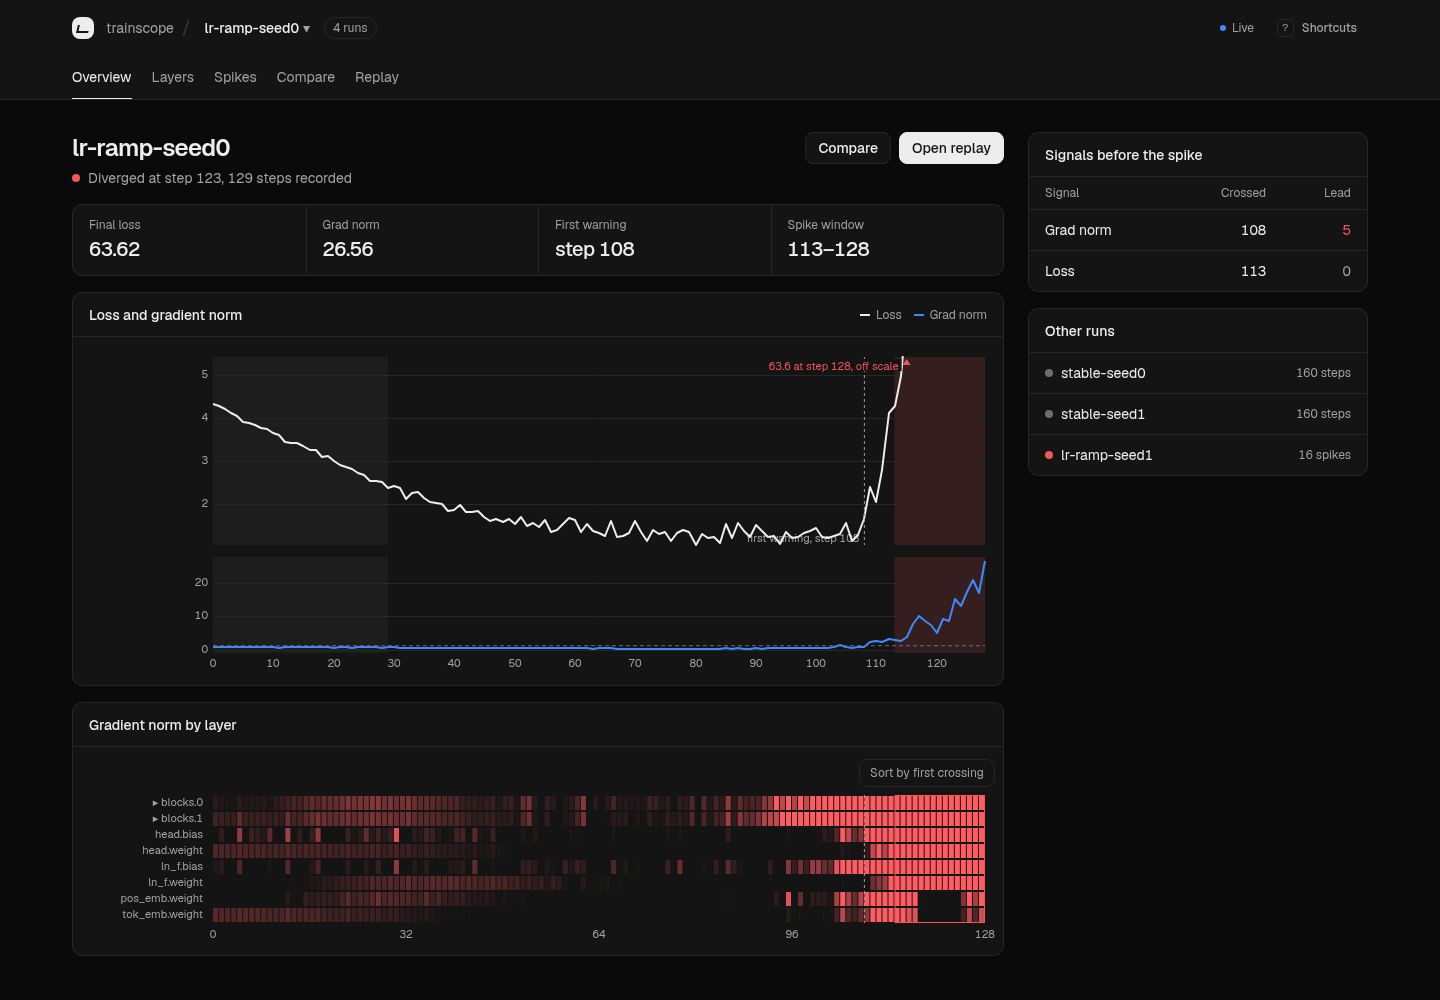
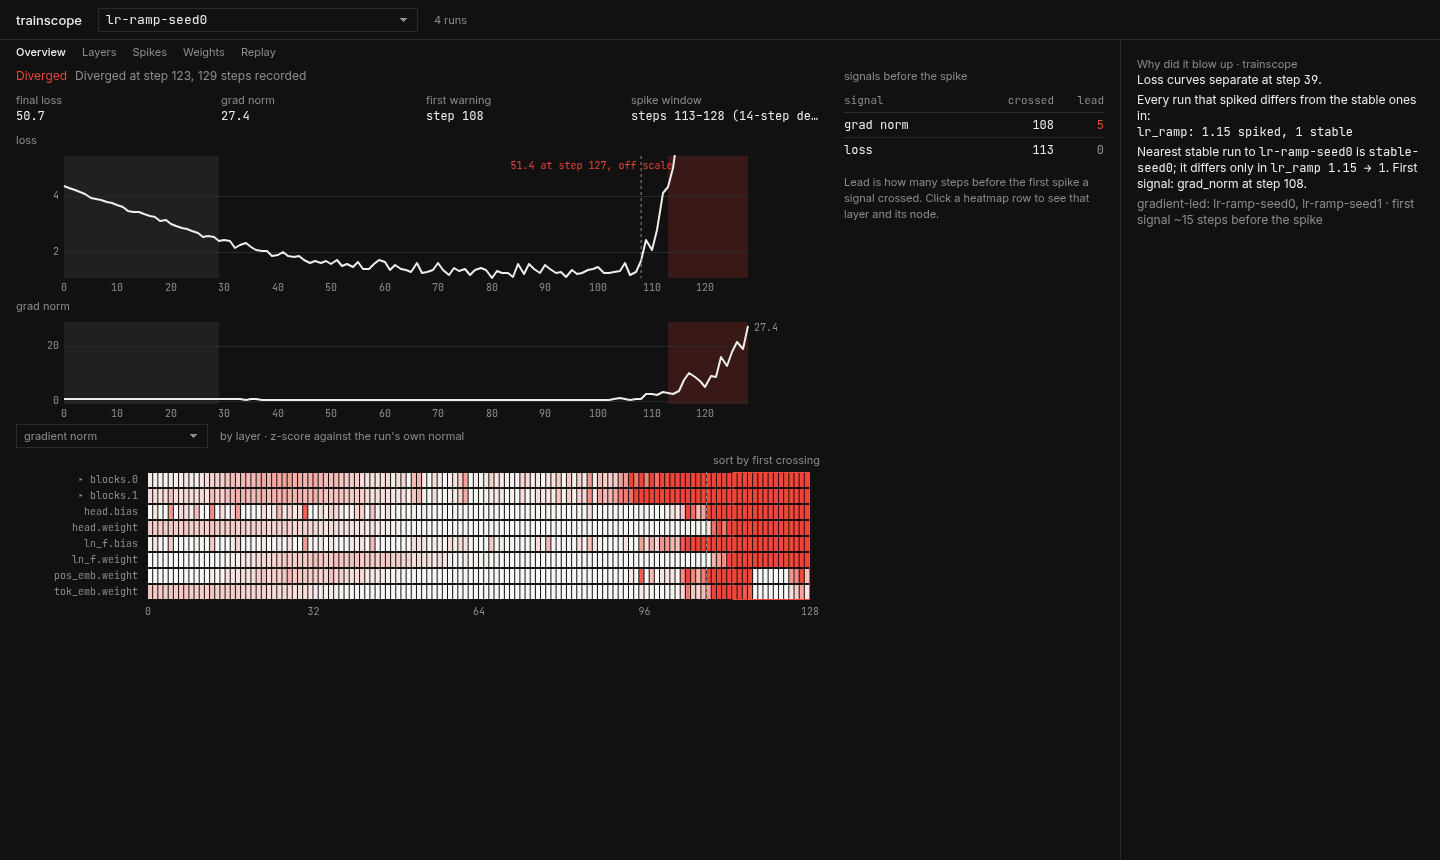
Release trainscope from the Weightsmith repository

diff --git a/web/src/ui/LineChart.tsx b/web/src/ui/LineChart.tsx
@@ -5,7 +5,7 @@
 import { useEffect, useMemo, useRef, useState } from "react";
 import uPlot from "uplot";
 import "uplot/dist/uPlot.min.css";
-import { alignSeries, Band, buildLineOptions, DASHES, fmt, Marker, Overlays, Series } from "./chartOptions";
+import { alignSeries, Band, buildLineOptions, DASHES, fmt, Marker, offScaleMarker, Overlays, Series } from "./chartOptions";
 
 export type { Band, Marker, Series } from "./chartOptions";
 
@@ -52,7 +52,9 @@ export function LineChart({
   const theme = useThemeKey();
   const data = useMemo(() => alignSeries(series), [series]);
   const overlays = useRef<Overlays>({});
-  overlays.current = { markers, bands, yMax };
+  // when yMax clamps the axis, mark where the first series leaves the plot instead of flattening the history
+  const offScale = useMemo(() => (yMax != null && series.length ? offScaleMarker(data[0], data[1], yMax) : null), [data, yMax, series.length]);
+  overlays.current = { markers, bands, yMax, offScale };
 
   useEffect(() => {
     const el = wrap.current;

diff --git a/tests/test_trainscope_boundary.py b/tests/test_trainscope_boundary.py
@@ -30,4 +30,5 @@ def test_standalone_wheel_ships_the_shared_ui(tmp_path):
     assert 'name="generator" content="weightsmith-web"' in wheel.read("trainscope/ui/static/index.html").decode()
     assert any(n.startswith("trainscope/ui/static/assets/") and n.endswith(".js") for n in names)
     meta = wheel.read(next(n for n in names if n.endswith("METADATA"))).decode()
-    assert "weightsmith" not in meta.lower()
+    requires = [line for line in meta.splitlines() if line.startswith("Requires-Dist:")]
+    assert requires and not any("weightsmith" in r.lower() for r in requires)

diff --git a/trainscope/README.md b/trainscope/README.md
@@ -2,10 +2,12 @@
 
 [![PyPI](https://img.shields.io/pypi/v/trainscope)](https://pypi.org/project/trainscope)
 [![Python](https://img.shields.io/pypi/pyversions/trainscope)](https://pypi.org/project/trainscope)
-[![CI](https://github.com/kaelvalen/trainscope/actions/workflows/ci.yml/badge.svg)](https://github.com/kaelvalen/trainscope/actions/workflows/ci.yml)
+[![CI](https://github.com/kaelvalen/weightsmith/actions/workflows/ci.yml/badge.svg)](https://github.com/kaelvalen/weightsmith/actions/workflows/ci.yml)
 [![License: MIT](https://img.shields.io/badge/License-MIT-yellow.svg)](LICENSE)
 
 **Post-mortem debugger for LLM training loss spikes.**
+
+trainscope lives in the [Weightsmith](https://github.com/kaelvalen/weightsmith) repository (`trainscope/`) and records every Weightsmith run; it is still a standalone package for any PyTorch, Hugging Face or Lightning training loop.
 
 When a loss spike hits, you know *that* it happened — trainscope tells you *why*. It records per-layer gradients, weight distributions, activation statistics, and optimizer state at every training step, then serves a browser UI to scrub back through the event.
 
@@ -14,7 +16,7 @@ pip install trainscope
 trainscope demo   # trains 4 tiny runs (~10 s on CPU), 2 of which diverge, and opens the UI
 ```
 
-![Overview of a diverging run: loss and grad norm on a shared step axis, the layer heatmap below, and the signals that crossed before the spike](https://raw.githubusercontent.com/kaelvalen/trainscope/main/docs/images/overview.png)
+![Overview of a diverging run: loss and grad norm on a shared step axis, the layer heatmap below, and the signals that crossed before the spike](https://raw.githubusercontent.com/kaelvalen/weightsmith/main/trainscope/docs/images/overview.png)
 
 ## Table of contents
 
@@ -49,7 +51,7 @@ Loss spikes in large language model training are expensive. Existing tools log a
 - **Weight histograms + KL divergence**: Compare parameter distributions before and after the spike.
 - **RNG state + optional checkpoint**: At the spike step for exact replay.
 
-All data is written to Arrow files (locally or to a remote store via fsspec); the UI is a lightweight standalone FastAPI server with lazy-loaded views and Plotly (initial shell ~60KB gzipped; the 4.9MB Plotly bundle is fetched only when the first chart renders) and incremental WebSocket live streaming for loss, spikes, layers, and MoE routing shares.
+All data is written to Arrow files (locally or to a remote store via fsspec); the UI is a lightweight standalone FastAPI server with uPlot charts (the whole UI is ~100 KB of gzipped JS) and incremental WebSocket live streaming for loss, spikes, layers, and MoE routing shares.
 
 ## Quick start
 
@@ -157,19 +159,20 @@ spike.
 
 ## Browser UI
 
-Six tabs and a runs index, one command:
+`trainscope ui --run <dir>` or `trainscope ui --runs <root>` opens one run at a time (pick it at the top; the choice is kept in the URL as `#run=<name>`), with these views:
 
 | View | What it shows |
 |------|---------------|
-| **Overview** | Run status, final loss and grad norm, the first warning step and spike window; loss and grad norm on one shared step axis with the warmup band and spike windows; a layer × step heatmap of how far each layer's gradient norm sits above its own baseline; and the signals that crossed their threshold before the spike, with their lead |
-| **Layers** | Grad norm / weight norm / activation kurtosis per parameter tensor with a weight-histogram scrubber |
-| **Spikes** | The chronological root-cause cascade for a spike, with the loss, grad norm and per-layer signals around it |
+| **Overview** | Run status, final loss and grad norm, the first warning step and spike window; loss and grad norm on one shared step axis with the warmup band and spike windows; a layer × step heatmap of how far each layer's metric (gradient norm, weight norm, activation kurtosis or max gradient) sits above its own baseline; and the signals that crossed their threshold before the spike, with their lead |
+| **Layers** | Gradient norm, weight norm, activation kurtosis and max gradient for one parameter tensor over the run |
+| **Spikes** | Each spike event with the chronological root-cause cascade, the loss around it and the layers recorded in its window |
 | **Routing** | Per-expert and per-slot share series over time (shown when the run has MoE or addressor data) |
-| **Compare** | KL divergence of weight distributions between any two steps, with per-layer gradient-norm change |
+| **Weights** | KL divergence of weight distributions between any two steps, with per-layer gradient-norm change |
 | **Replay** | The run's generated `replay_config.json` with the training steps its skip list maps to |
-| **Runs index** | Every run under a root in one table, behavior clusters with their shared config trait and lead, and nearest-stable-run counterexamples (open it from the breadcrumb) |
 
-Each view has its own URL (`http://127.0.0.1:7007/#spikes`), so a link to a view can be shared and survives a reload; the 1.9.0 links (`#timeline`, `#diff`, …) still work. The UI follows your system's light or dark setting and loads no fonts or scripts from the network.
+With more than one run, a side panel answers "why did it blow up": where the loss curves separate, the config fields every spiked run shares against the stable ones, behavior clusters with their lead, and the nearest stable run with the fields it differs in. The UI follows your system's light or dark setting and loads no fonts or scripts from the network.
+
+The same views are the **Diagnose** tab in Weightsmith, where a heatmap row also selects the graph node that holds the layer.
 
 ### Screenshots
 
@@ -177,28 +180,24 @@ All taken from `trainscope demo` (two runs diverge under a learning-rate ramp, t
 
 **Overview.** Loss and grad norm on one step axis, the layer heatmap aligned underneath, and the signals that crossed before the spike with their lead. The loss line leaves the plot at the explosion with an off-scale marker instead of flattening the history.
 
-![Overview: loss and grad norm on a shared step axis, the layer heatmap below them, and the signals that crossed before the spike](https://raw.githubusercontent.com/kaelvalen/trainscope/main/docs/images/overview.png)
+![Overview: loss and grad norm on a shared step axis, the layer heatmap below them, and the signals that crossed before the spike](https://raw.githubusercontent.com/kaelvalen/weightsmith/main/trainscope/docs/images/overview.png)
 
 **Dark mode** follows the system setting, from its own palette rather than an inverted one.
 
-![Overview in dark mode](https://raw.githubusercontent.com/kaelvalen/trainscope/main/docs/images/overview-dark.png)
+![Overview in dark mode](https://raw.githubusercontent.com/kaelvalen/weightsmith/main/trainscope/docs/images/overview-dark.png)
 
-**Runs index.** Every run with its status and cluster, and the diverging runs grouped by the signal that fired first.
+**Layers.** One parameter tensor's gradient, weight and activation signals over the run.
 
-![Runs index: every run with its status and cluster, and the diverging runs grouped by their first early-warning signal](https://raw.githubusercontent.com/kaelvalen/trainscope/main/docs/images/runs-view.png)
-
-**Layers.** One parameter tensor's gradient, weight and activation signals, with the weight histogram at any step.
-
-![Layers: gradient L2 over the run for one tensor, a step scrubber, and the weight histogram with outlier bins in red](https://raw.githubusercontent.com/kaelvalen/trainscope/main/docs/images/layers-view.png)
+![Layers: gradient norm, weight norm, activation kurtosis and max gradient over the run for one tensor](https://raw.githubusercontent.com/kaelvalen/weightsmith/main/trainscope/docs/images/layers-view.png)
 
 **Spikes.** The root-cause cascade for a spike, with loss, grad norm and per-layer signals around it on a shared cursor.
 
-![Spikes: the cascade summary for the spike at step 113 and the loss, grad norm and layer charts around it](https://raw.githubusercontent.com/kaelvalen/trainscope/main/docs/images/spikes-view.png)
+![Spikes: the cascade summary for the spike at step 113 and the loss, grad norm and layer charts around it](https://raw.githubusercontent.com/kaelvalen/weightsmith/main/trainscope/docs/images/spikes-view.png)
 
-The React UI is served by default after `pip install trainscope` (pre-compiled assets included). If developing from source:
+The UI is served by default after `pip install trainscope` (pre-built assets included). From a source checkout it is built from Weightsmith's web package:
 
 ```bash
-cd frontend && npm install && npm run build
+cd web && pnpm install && pnpm run build:scope   # writes trainscope/trainscope/ui/static
 ```
 
 ## Command-line interface
@@ -341,36 +340,23 @@ raise `activation_metrics_every_n_steps`, or restrict activations with
 
 ## Development
 
-The project uses a Nix flake for the development shell:
+trainscope is a member of the Weightsmith uv workspace:
 
 ```bash
-nix develop
+git clone https://github.com/kaelvalen/weightsmith.git
+cd weightsmith
+uv sync                                      # both packages, editable
+cd trainscope && uv run pytest -q            # trainscope's own suite and config
+uv run ruff check trainscope/ tests/ scripts/ examples/ && uv run mypy trainscope/ tests/
 ```
 
-Or with a local virtual environment:
-
-```bash
-python -m venv .venv
-source .venv/bin/activate
-pip install -e ".[dev]"
-```
-
-Quick commands:
-
-```bash
-make test      # pytest tests/ -q
-make lint      # ruff + mypy
-make format    # ruff format
-make frontend-build
-```
-
-Install pre-commit hooks:
-
-```bash
-pre-commit install
-```
+`scripts/check.sh` at the repository root runs everything, Weightsmith's suites included. The package must not import Weightsmith (a test enforces it).
 
 See [CONTRIBUTING.md](CONTRIBUTING.md) for coding style and pull request guidelines.
+
+## Publishing
+
+Releases are cut from the Weightsmith repository with a `trainscope-v<version>` tag (the version in `trainscope/pyproject.toml`). The publish workflow runs the checks, builds the UI into the package, builds the wheel and sdist and uploads them to PyPI with trusted publishing.
 
 ## License
 

diff --git a/trainscope/CONTRIBUTING.md b/trainscope/CONTRIBUTING.md
@@ -1,76 +1,50 @@
 # Contributing to trainscope
 
-Thanks for your interest in contributing! This document covers how to set up a
-development environment, run checks, and submit changes.
+trainscope is developed in the [Weightsmith](https://github.com/kaelvalen/weightsmith) repository, under `trainscope/`, and published to PyPI on its own.
 
 ## Development setup
 
 ```bash
-git clone https://github.com/kaelvalen/trainscope.git
-cd trainscope
-make install
-```
-
-Or manually:
-
-```bash
-pip install -e ".[dev]"
-cd frontend && npm install
+git clone https://github.com/kaelvalen/weightsmith.git
+cd weightsmith
+uv sync
+cd web && pnpm install
 ```
 
 ## Running tests
 
 ```bash
-make test
+cd trainscope && uv run pytest -q     # trainscope only
+scripts/check.sh                      # everything, from the repository root
 ```
-
-This runs the full Python test suite with `pytest`.
 
 ## Linting and formatting
 
 ```bash
-make lint      # ruff check, ruff format --check, mypy
-make format    # auto-format Python code with ruff
+cd trainscope
+uv run ruff check trainscope/ tests/ scripts/ examples/
+uv run ruff format trainscope/ tests/
+uv run mypy trainscope/ tests/
 ```
 
-The project uses **ruff** for linting and formatting (line length 100) and
-**mypy** for type checking.
+The project uses **ruff** for linting and formatting (line length 100) and **mypy** for type checking.
 
-## Frontend
+## UI
+
+The browser UI is Weightsmith's web package (`web/src/scope/`): the same views are Weightsmith's Diagnose tab and the standalone `trainscope ui`. Build the standalone bundle into the package with:
 
 ```bash
-cd frontend
-npm run lint
-npm run build
+cd web && pnpm run build:scope
 ```
 
-## Pre-commit hooks
+## Rules
 
-Install the provided hooks to run checks automatically on every commit:
-
-```bash
-pre-commit install
-```
+- `trainscope/trainscope/` must never import Weightsmith.
+- The Python API, config surface, Arrow format and plugin surface are stable contracts (see the README's "Stability scope").
 
 ## Pull request workflow
 
 1. Create a feature branch from `main`.
 2. Make focused, minimal changes.
 3. Add or update tests for new behavior.
-4. Run `make test` and `make lint` locally.
-5. Open a pull request against `main`.
-
-CI will run the full matrix (Python 3.11/3.12/3.13, ruff, mypy, frontend
-build) before merging.
-
-## Code style
-
-- Python 3.11+ type-hint style (`str | None`, `list[int]`).
-- 100-character line limit.
-- Descriptive variable names and docstrings for public APIs.
-- Keep changes minimal and scoped.
-
-## Reporting issues
-
-If you find a bug or have a feature request, please open an issue on GitHub with
-a minimal reproduction when possible.
+4. Run `scripts/check.sh` locally.

diff --git a/README.md b/README.md
@@ -50,6 +50,7 @@ canvas ◀──────────── metrik / log / durum ────
 | `examples/` | Referans graph'lar + job'lar (MNIST MLP, plan örneği MLP+LoRA, Transformer, Python node) |
 | `importers/` | Hugging Face importer: 8 aile, transformers'la eşdeğerlik testli |
 | `tests/` | core, codegen snapshot'ları, sandbox, daemon uçtan uca, TS çapraz test fixture'ları |
+| `trainscope/` | [trainscope](trainscope/README.md): eğitim kaydı ve spike teşhisi; uv workspace üyesi, PyPI'da ayrı paket (`pip install trainscope`) |
 
 **Tek doğrulayıcı kuralı.** Shape inference ve validator Python'da (`core/`). Canvas anlık geri
 bildirim için TS aynasını (`web/src/ir/analyze.ts`) kullanır; ayna her değişiklikte
@@ -67,6 +68,23 @@ canvas onu tercih eder.
 - `Cmd/Ctrl+Z` / `Shift+Cmd/Ctrl+Z`: IR işlem günlüğünden undo/redo
 - Subgraph node'una çift tık içine girer.
 - Alt şerit: Metrics (canlı eğriler, pause/resume/stop/checkpoint, ablasyon, export), Runs, Compare (eğriler + graph diff), Log, Code (üretilen `model.py`; satıra tıklamak node'u seçer).
+
+## Eğitim teşhisi (trainscope)
+
+Her run [trainscope](trainscope/README.md) ile kaydedilir: katman bazında gradyan, ağırlık ve
+aktivasyon istatistikleri, loss spike'ları ve onlardan önce eşiği geçen sinyaller
+(`runs/<id>/scope/`). Alt şeritteki **Diagnose** sekmesi aktif run'ı gösterir: loss ve grad norm,
+katman × adım heatmap'i, spike'lar, katman grafikleri, MoE yönlendirmesi, ağırlık farkı.
+
+- Heatmap satırına tıklamak o katmanı tutan node'u canvas'ta seçer; Inspector'da node'un katman
+  grafikleri çıkar. **paint canvas** node'ları katmanlarının ne kadar saptığına göre boyar; ilk
+  spike'tan önce 3σ'yı ilk geçen eğitilen katmanın node'u kırmızı çerçeveyle işaretlenir.
+- **Runs** her run'ın sağlığını (stable / spiked / diverged) ve ilk spike adımını gösterir.
+  **Compare** işaretli run'lar için "neden patladı" sorusunu cevaplar: eğrilerin ayrıldığı adım,
+  patlayan run'ların ortak ayarı, en yakın stabil run ve onu ayıran alanlar.
+- Kayıt job'da kapatılır: `"train": {"diagnostics": {"trainscope": false}}`. Run kimliğine girmez.
+  Maliyeti ve nedeni: `docs/decisions.md` → "Beşinci tur".
+- Weightsmith dışındaki eğitimler için `trainscope ui --runs <dizin>` aynı görünümleri açar.
 
 ## Önceden eğitilmiş modeller
 

diff --git a/docs/decisions.md b/docs/decisions.md
@@ -178,6 +178,23 @@ Büyük modelde oran parametre sayısıyla ölçeklenir (trainscope README: 97M'
 ~%25). Kapatmak: job'da `"diagnostics": {"trainscope": false}`. Sonraki iş: trainscope'un adım
 yolunu küçük modeller için ucuzlatmak (katman metriklerini tek tensörde toplamak, yazımı toplu yapmak).
 
+**Birleşme.** trainscope geçmişiyle `trainscope/` altına taşındı (uv workspace üyesi; PyPI'a
+`trainscope-v*` etiketiyle bu repodan yayınlanır, ilk sürüm 1.11.0). API'si run bazlı bir router
+oldu (`make_router`), daemon onu `/api/scope` altında servis eder. Arayüzü `web/src/scope/`'ta
+TS'e yeniden yazıldı; aynı kod Diagnose sekmesi ve `pnpm run build:scope` ile wheel'e giren bağımsız
+`trainscope ui`. Grafikler uPlot (tek kütüphane), renkler `index.css` token'ları. Uygulama planı:
+[`docs/design/2026-11-21-trainscope-merge-plan.md`](design/2026-11-21-trainscope-merge-plan.md).
+
+trainscope'a eklenenler (geriye uyumlu): `TrainScope(model_config=...)` (karşılaştırmanın diff
+ettiği run config'i; Weightsmith job'ın train ayarlarını, graph hash'ini ve veri kaynağını yazar),
+`weightsmith` preset'i, resume'da adım numarasının kaldığı yerden devam etmesi (önceden 0'dan
+başlayıp adımları tekrarlıyordu).
+
+Bilinçli olarak yapılmayanlar: Overview'da sürükle-yakınlaştır, Layers'ta histogram kaydırıcısı,
+Compare grafiğinde kümelerin ortak kader bandı (metin olarak listeleniyor), Runs'ta tam
+`runStatus` (sağlık kayıt özetinden okunur: sonlu ama 10× yukarıda biten run "diverged" değil
+"stable/spiked" görünür), Weightsmith dışı run'ları Runs'a ekleme (proje 3).
+
 ## Testler
 
 `scripts/check.sh`: Python (çekirdek, codegen snapshot'ları, 132 node'un CPU'da gerçek forward'ı, şablon sayıları, importer eşdeğerliği, Cerata döngüsü, daemon uçtan uca), TS aynası çapraz testi, typecheck, build ve Chrome varsa tarayıcı senaryoları (`scripts/e2e.sh`, `web/e2e/`).

diff --git a/trainscope/CHANGELOG.md b/trainscope/CHANGELOG.md
@@ -5,6 +5,24 @@ All notable changes to this project will be documented in this file.
 The format is based on [Keep a Changelog](https://keepachangelog.com/en/1.1.0/),
 and this project adheres to [Semantic Versioning](https://semver.org/spec/v2.0.0.html).
 
+## [1.11.0] - Part of Weightsmith
+
+### Changed
+- **Moved into the Weightsmith repository** (`trainscope/`); issues and releases live there. The package is unchanged for users: `pip install trainscope`, same Python API, config and Arrow format.
+- **The HTTP API is keyed by run.** Every per-run endpoint is `/api/runs/<run>/…` and the WebSocket `/api/runs/<run>/ws`; `POST /api/runs/select` and the server-side "active run" are gone. `/api/cluster` takes an optional `runs=` filter. Multi-run endpoints answer in single-run mode too. (`/api/*` is internal to the UI, as before.) The router is reusable: `trainscope.ui.server.make_router(resolve, list_runs)`.
+- **UI rebuilt on Weightsmith's web package** (TypeScript, the same views as Weightsmith's Diagnose tab). One run is shown at a time with a run picker; the runs index becomes a "why did it blow up" side panel (divergence step, shared config traits, clusters, nearest stable run). The heatmap metric is selectable.
+
+### Added
+- `TrainScope(..., model_config=...)` records the run's own configuration in `meta.json`, which run comparison and clustering diff; the default is unchanged.
+- `weightsmith` config preset (`minimal` without the attention/MLP activation filter).
+- `DiskWriter.last_step`.
+
+### Fixed
+- Resuming a run (`resume=True`) continues step numbering after the last recorded step; it restarted at 0 and duplicated steps.
+
+### Removed
+- The weight-histogram step scrubber in Layers and drag-to-zoom on the Overview charts.
+
 ## [1.10.0] - New UI
 
 ### Changed
